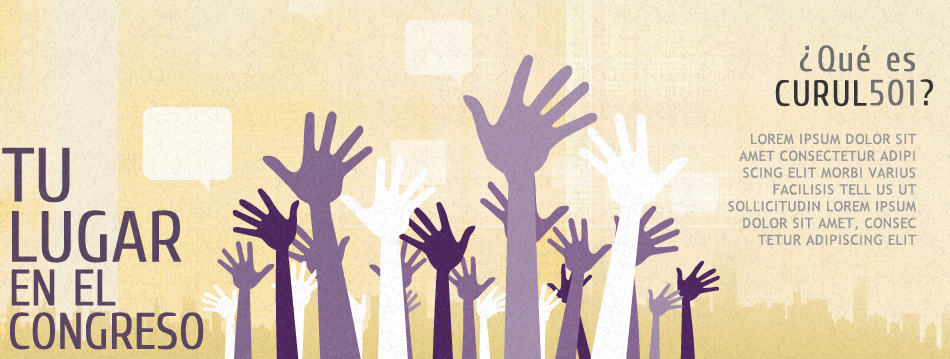
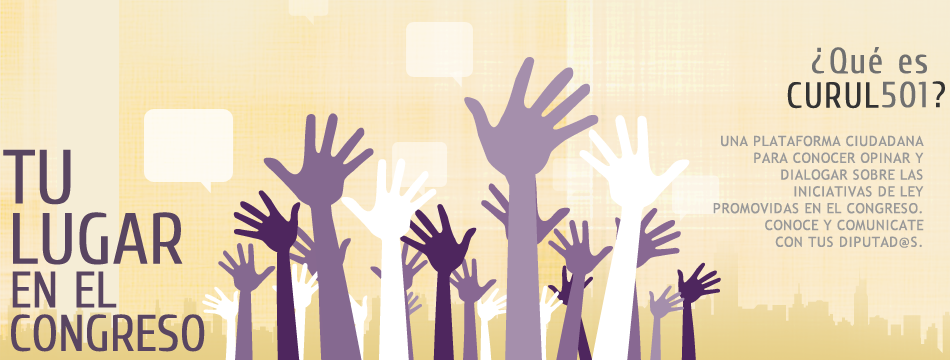
textos nuevos en el home

diff --git a/app/assets/stylesheets/front/iniciativas.css.scss b/app/assets/stylesheets/front/iniciativas.css.scss
@@ -11,6 +11,13 @@ html {
       }
     }
 
+    span {
+      &.disclaimer {
+        margin: 0 0 0 40px;
+        padding: 0;
+      }
+    }
+    
     .pagination {
       float: right;
       .active a { background-color: $arctic-bluish-gray; }  

diff --git a/app/assets/stylesheets/front/_base.css.scss b/app/assets/stylesheets/front/_base.css.scss
@@ -24,6 +24,14 @@ a {
   &:hover { text-decoration:none; }
 }
 
+span {
+  &.disclaimer {
+    @include column-base(true);
+    @include arial-font(#c5c5c5, 11px);
+    padding: 20px;
+  }
+}
+
 ul {
   &.follow {
     @include column-base(true);
